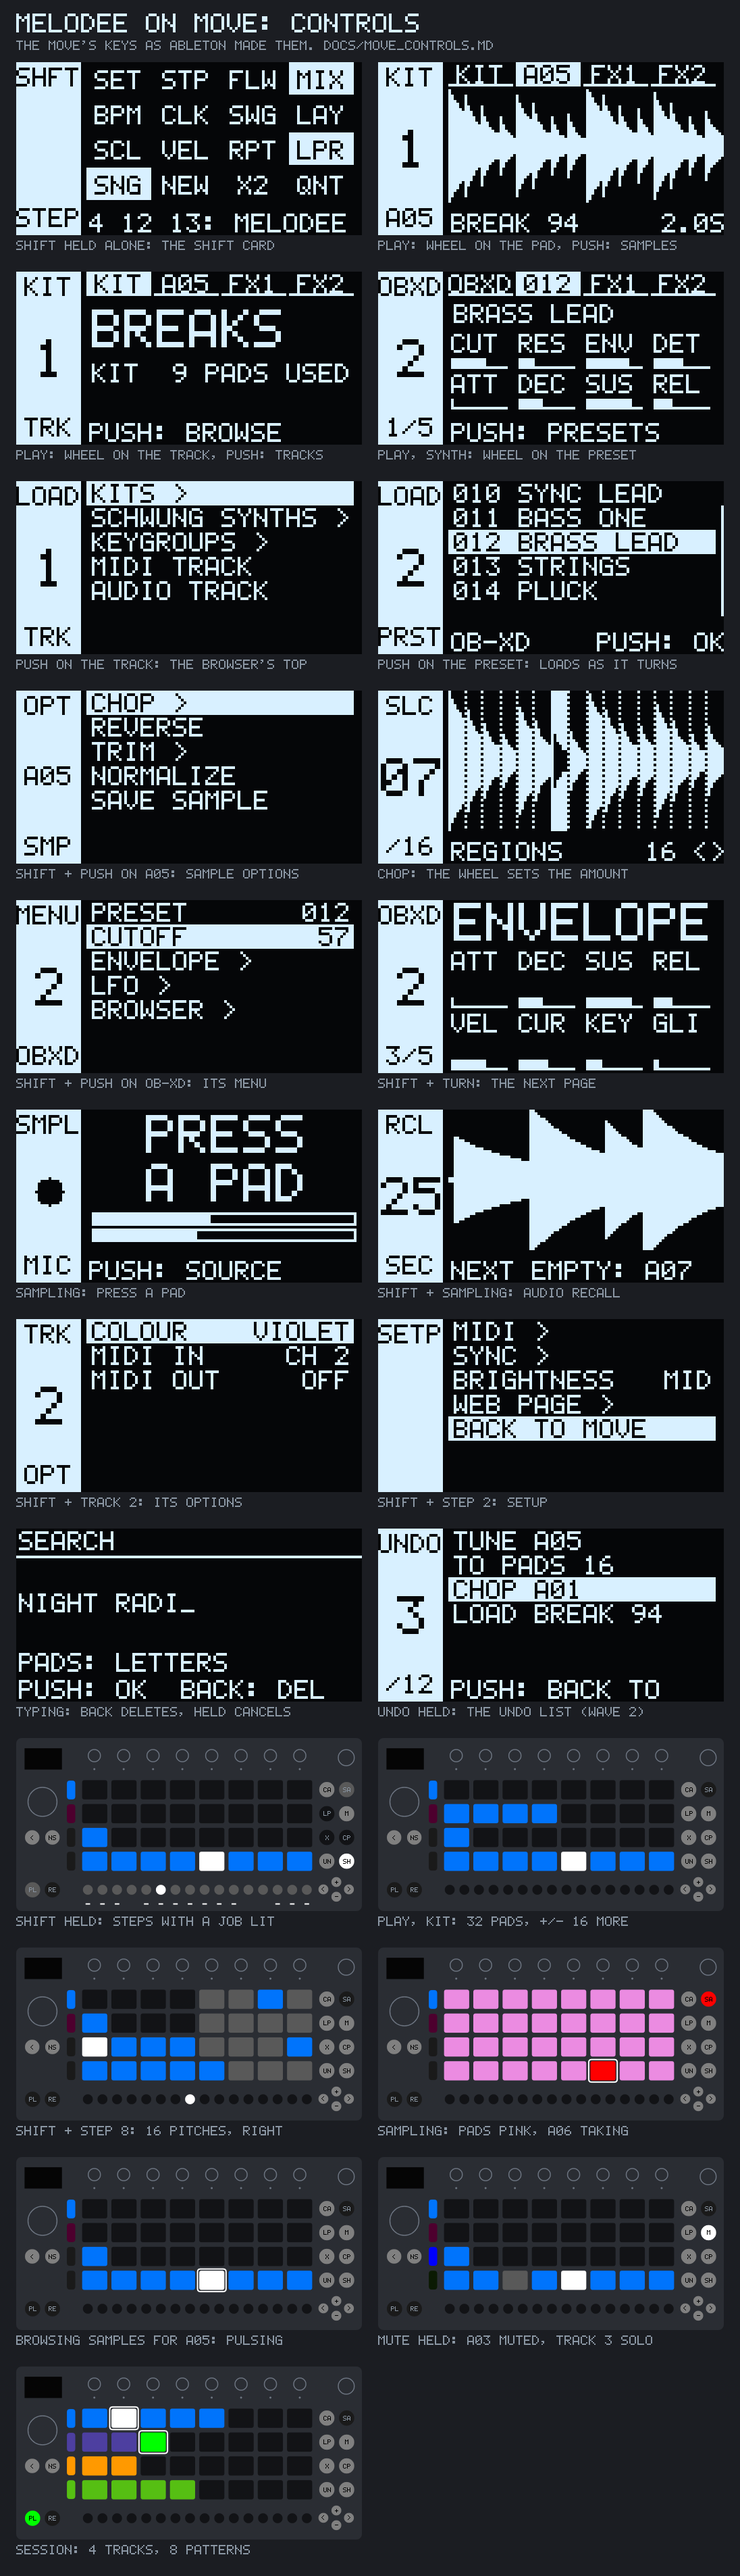
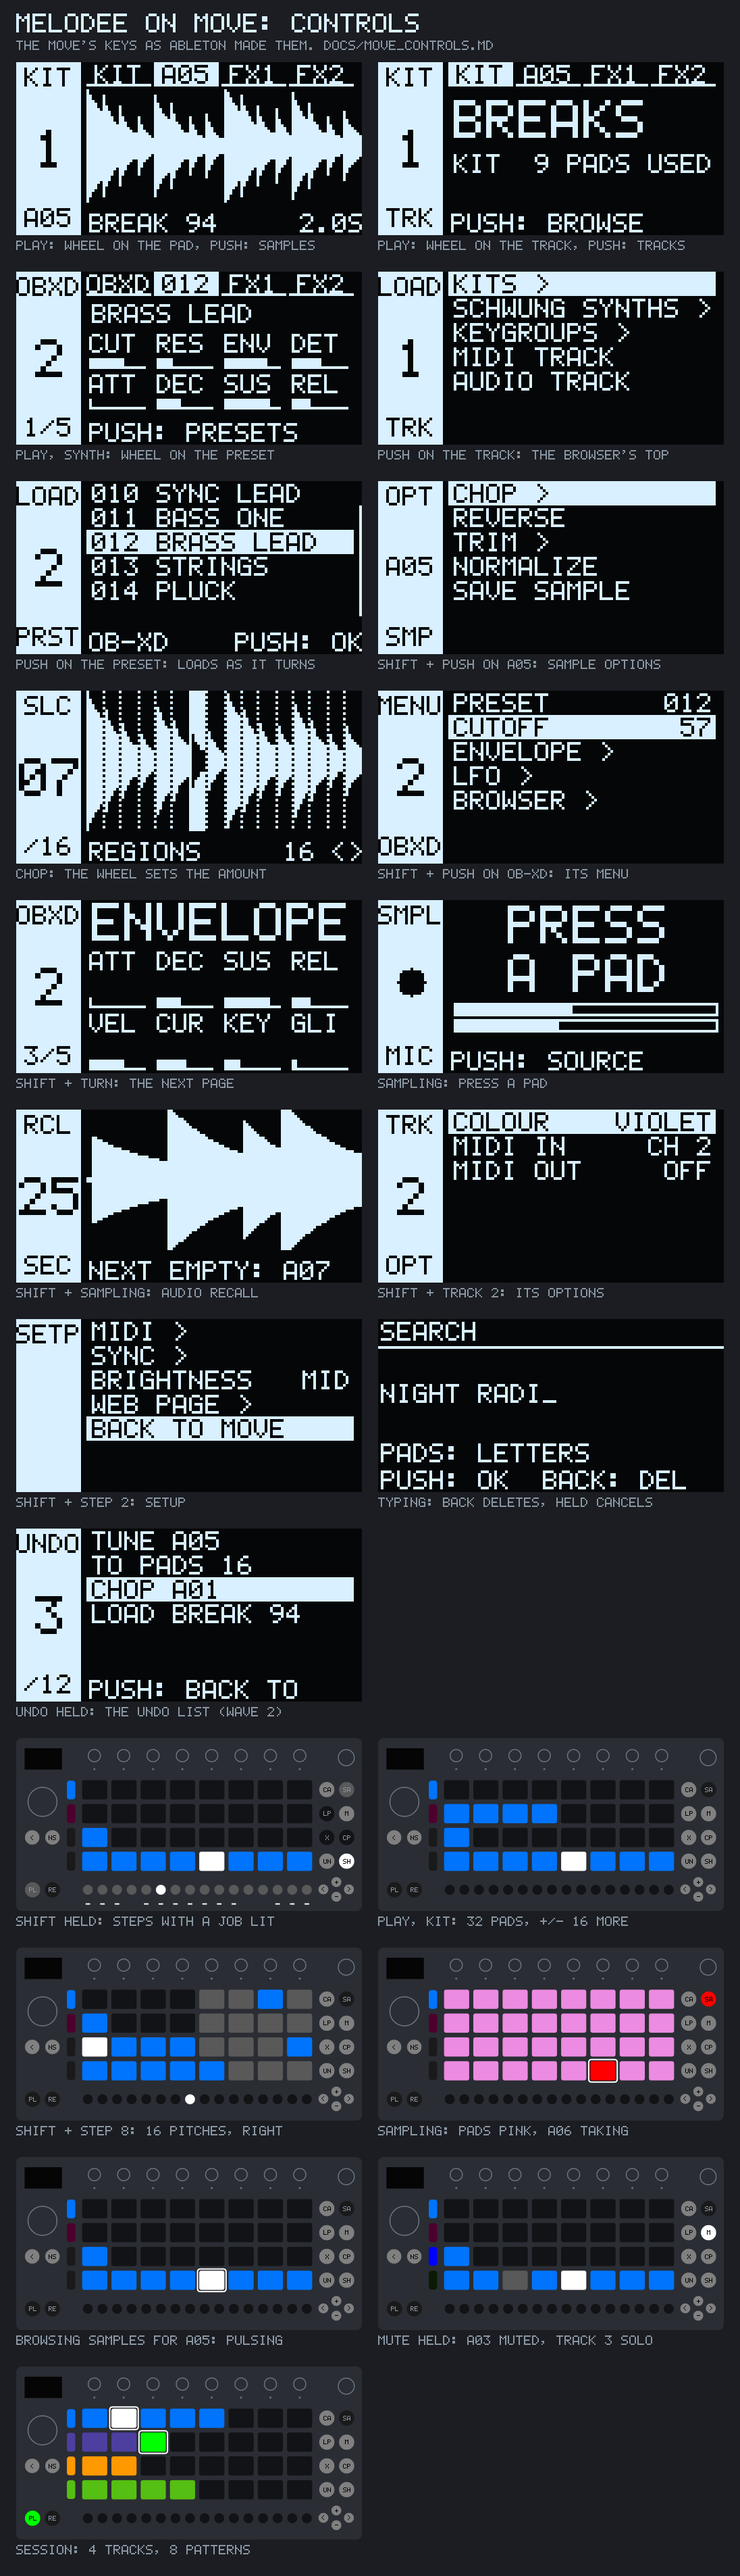
docs(move): Shift held shows nothing on screen; drop the Shift card

Changed region(s): [[0.0, 0.0, 0.9927, 0.6868]]

diff --git a/src/ui/mockups_controls.cpp b/src/ui/mockups_controls.cpp
@@ -4,8 +4,9 @@
 // jobs reach new screens by new doors: the Device View on Play (the wheel
 // walks the track's items, the push opens one's browser), Shift + push for
 // Sample Options and a module's menu, Shift + turn for pages, Shift +
-// Sampling for Audio Recall, the Shift card for Shift + Steps 4, 12 and 13.
-// The light panels draw the whole Move as Ableton's controls figure lays it
+// Sampling for Audio Recall. Shift held draws nothing on the screen, as on
+// the stock Move (Kerem dropped the Shift card): the steps with a job light,
+// Melodee's Steps 4, 12 and 13 too (lights-shift). The light panels draw the whole Move as Ableton's controls figure lays it
 // out (the manual's MoveControls.png).
 #include "ui/mockups.h"
 #include "move/controls.h"
@@ -85,23 +86,6 @@ void items(juce::Graphics& g, const std::array<const char*, 4>& names, int selec
 
 std::vector<Screen> controls_screens() {
     return {
-        {"shift-card", "SHIFT HELD ALONE: THE SHIFT CARD", [](juce::Graphics& g) {
-            rail(g, "SHFT", "", "STEP");
-            // Steps 1-16 in reading order; Melodee's own (no icon on the Move) inverted.
-            static const char* jobs[16] {"SET", "STP", "FLW", "MIX", "BPM", "CLK", "SWG", "LAY",
-                                         "SCL", "VEL", "RPT", "LPR", "SNG", "NEW", "X2", "QNT"};
-            int cell_w = content_width / 4, cell_h = 13;
-            for (int n = 0; n < 16; ++n) {
-                int x = content_x + (n % 4) * cell_w, y = (n / 4) * cell_h;
-                bool melodee = n == 3 || n == 11 || n == 12;
-                g.setColour(on);
-                if (melodee) g.fillRect(x, y, cell_w - 1, cell_h - 1);
-                g.setColour(melodee ? off : on);
-                move::draw_text_centred(g, x, y + 3, cell_w - 1, jobs[n]);
-            }
-            g.setColour(on);
-            detail(g, "4 12 13: MELODEE");
-        }},
         {"play-pad", "PLAY: WHEEL ON THE PAD, PUSH: SAMPLES", [](juce::Graphics& g) {
             rail(g, "KIT", "1", "A05");
             items(g, {"KIT", "A05", "FX1", "FX2"}, 1);

diff --git a/docs/MOVE_CONTROLS.md b/docs/MOVE_CONTROLS.md
@@ -76,7 +76,8 @@ after Schwung) differ for some buttons:
 | Track buttons / 16 tracks | **The track buttons are the four tracks of the bank in view.** Holding a track button and pressing step 1-16 picks any track (core's mockup A); **Shift + Note/Session** opens the 16-track overview (as Control Live's Session Overview); in Session, Plus and Minus move the bank. Shift + track button stays the Move's track options. |
 | Capture / Audio Recall | **Capture is Melodee's Recall** (the notes played, into a pattern), Shift + Capture clears it. **Shift + Sampling is Audio Recall**: the last 25 s of the input onto the next empty pad, as Shift + Sample Record on the MPC. |
 | Kit pads | **32 kit pads** (two banks of 16) as today; **Plus and Minus move 16 pads** through the kit's 8 banks (as Control Live's Drum mode). **Shift + Step 8** turns the right 16 into **16 Pitches** of the last pad (Melodee's 16 Levels, Tune), the left 16 staying the kit; Plus and Minus are then the pitches' octave. |
-| Shift + Steps 4, 12, 13 | No Move job (no icon): **4 the Mixer** (16 tracks, their effects), **12 the Looper**, **13 Song**. The Shift card names them (Mockups, below). |
+| Shift + Steps 4, 12, 13 | No Move job (no icon): **4 the Mixer** (16 tracks, their effects), **12 the Looper**, **13 Song**. |
+| Shift held | **Nothing on the screen**, as on the stock Move: the steps with a Shift job light, Melodee's 4, 12 and 13 too (Kerem dropped the on-screen Shift card from the mockups). |
 | Undo, quit | **Undo held 0.4 s opens the undo list** (as Melodee's Shift + − hold on the MPC). **Shift + Back goes back to Ableton's Move app**, as today, and Setup (Shift + Step 2) lists it too. |
 
 Followed from the rule without a choice: Left and Right become the
@@ -281,7 +282,7 @@ while Shift is held.
 | Back (Typing) | Deletes a character | The same | next |
 | Back held (Typing) | Leaves the text entry | Cancels the typing | next |
 | Shift + Back | No job | Back to Ableton's Move app (the runtime takes it) | done |
-| Shift held | Lights the icons under the steps with a Shift job; fine turns | The steps with a Shift job light; held alone 0.4 s, the Shift card names them | next |
+| Shift held | Lights the icons under the steps with a Shift job; fine turns | The steps with a Shift job light, 4, 12 and 13 too; the screen stays as it is | next |
 | Shift double press | Locks Shift on until pressed again (Shift + Play then does not retrigger) | The same | next |
 | Shift held (Typing) | Uppercase while held | The same | next |
 

diff --git a/docs/UI.md b/docs/UI.md
@@ -119,7 +119,7 @@ hold the code to it. In short:
 | --- | --- |
 | Pads | Play: a kit's 32 pads (two banks of 16), a module's notes; Chop: its slices; with a step held, notes on the step; Session: patterns |
 | Steps | Step Edit (a pattern's sixteenths; in Loop Mode its bars); held with a pad, the volume knob, the wheel, Plus/Minus or Left/Right, that step's notes |
-| Shift + steps | 1 projects, 2 Setup, 3 Workflow, **4 Mixer**, 5 Tempo, 6 metronome, 7 swing, 8 16 Pitches, 9 Keys & Scales, 10 Full Level, 11 Repeat and Arp, **12 Looper**, **13 Song**, 14 a new pattern, 15 double, 16 Time Correct (Melodee's own in bold) |
+| Shift + steps | 1 projects, 2 Setup, 3 Workflow, **4 Mixer**, 5 Tempo, 6 metronome, 7 swing, 8 16 Pitches, 9 Keys & Scales, 10 Full Level, 11 Repeat and Arp, **12 Looper**, **13 Song**, 14 a new pattern, 15 double, 16 Time Correct (Melodee's own in bold). Shift held lights them; the screen shows nothing |
 | Track buttons | the four tracks of the bank in view; held, a look at that track, and with a step any of the 16; Shift + one, its options |
 | Knobs 1-8 | the screen's eight parameters; touch one to see it large; Shift for fine |
 | Volume knob | the main volume; with a pad held its level, a track button its level, a step its velocity |
